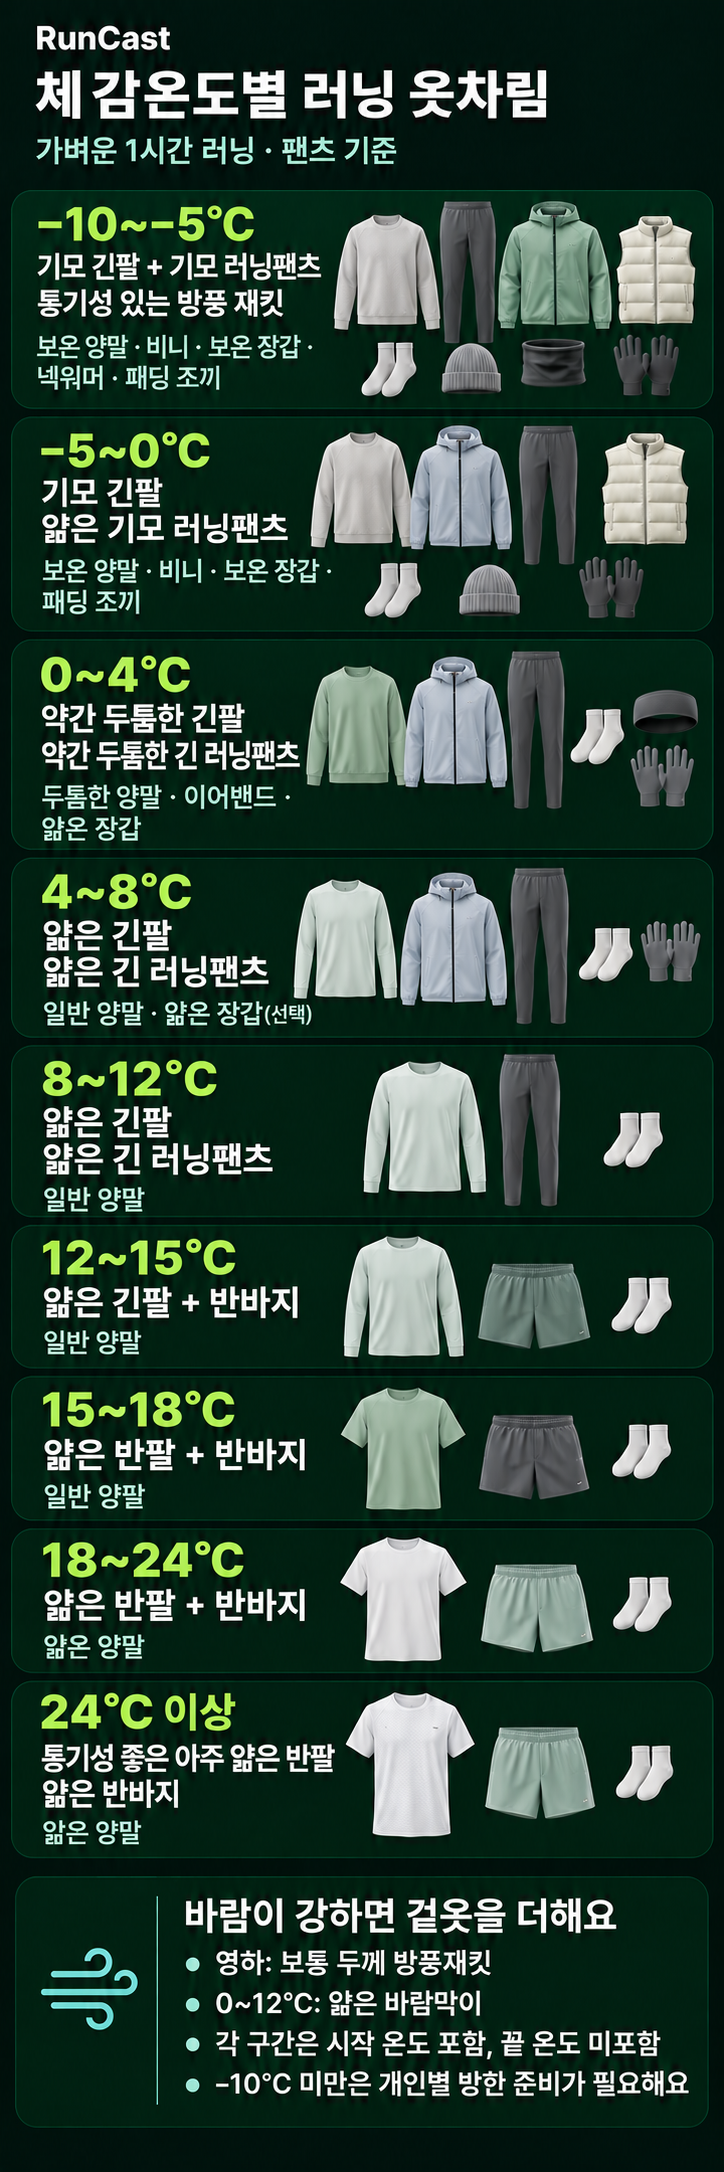
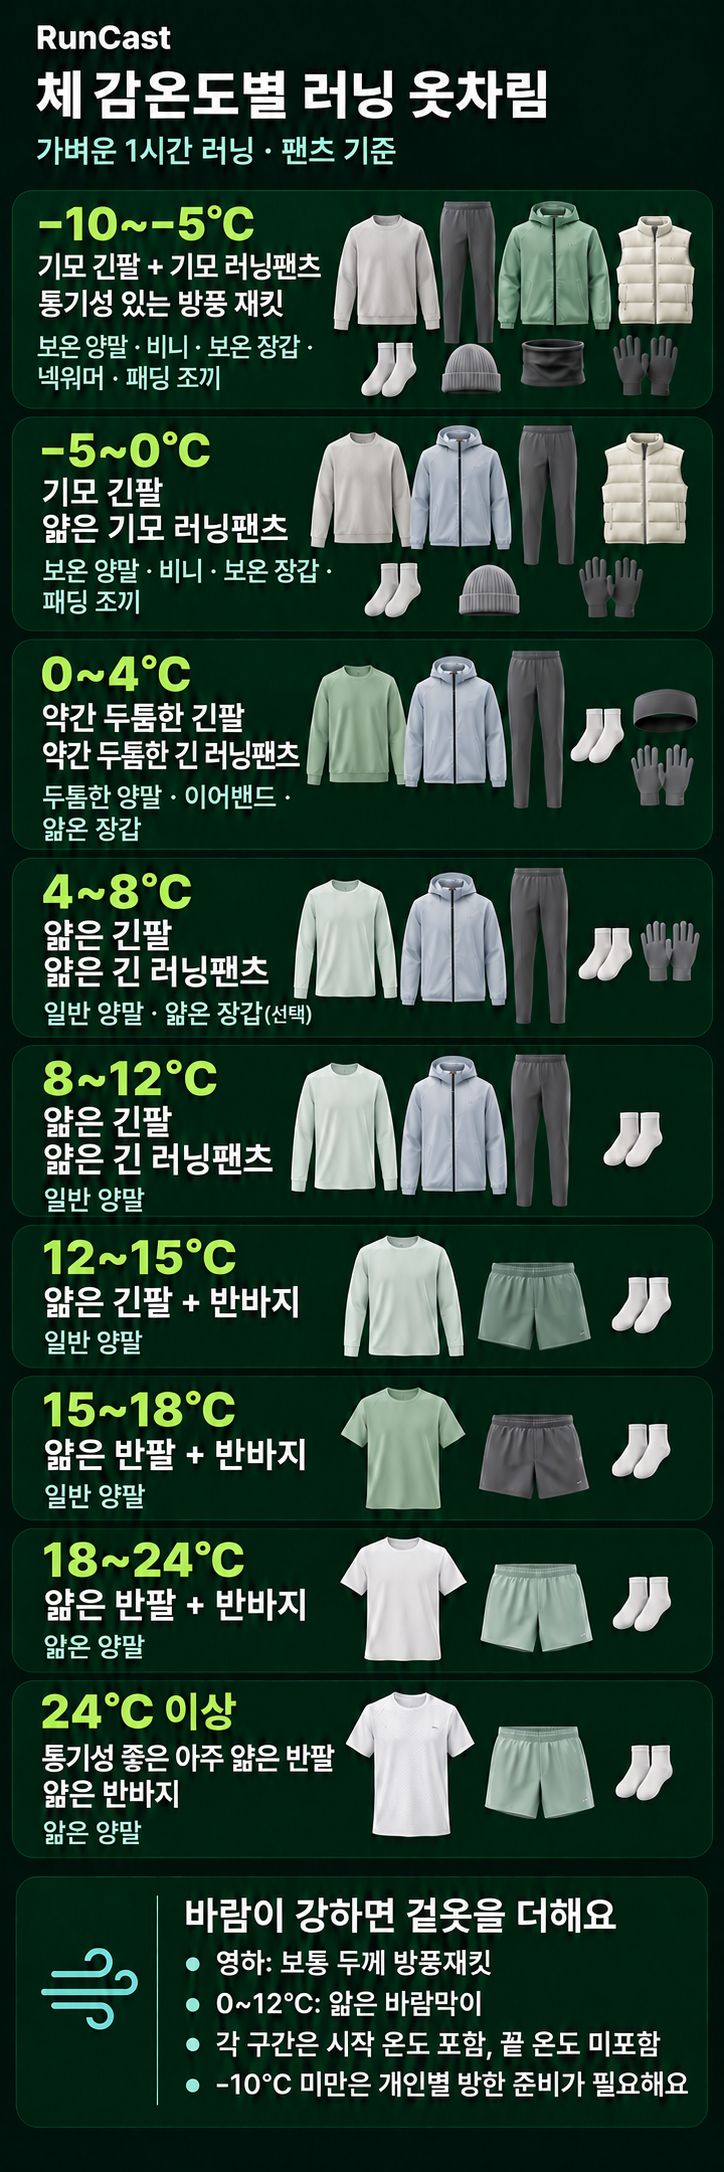
fix: add windbreaker to 8–12 degree clothing guide

diff --git a/sw.js b/sw.js
@@ -1,5 +1,5 @@
 // Offline app shell only. Weather and third-party maps are never intercepted.
-const CACHE = 'runcast-shell-v26';
+const CACHE = 'runcast-shell-v27';
 const SHELL = ['/mobile.html','/assets/mobile.css','/assets/mobile.js','/assets/mobile-extra.js','/assets/install-guide.mjs','/assets/refresh-scheduler.mjs','/assets/visit-tracker.mjs','/assets/weather-domain.mjs','/assets/running-wear-guide.png','/assets/ui-icons.mjs','/assets/cctv-domain.mjs','/assets/cctv-client.mjs','/manifest.webmanifest','/assets/pwa-icon-192.png','/assets/pwa-icon-512.png'];
 self.addEventListener('install',event=>event.waitUntil(caches.open(CACHE).then(cache=>cache.addAll(SHELL))));
 self.addEventListener('activate',event=>event.waitUntil(caches.keys().then(keys=>Promise.all(keys.filter(k=>k.startsWith('runcast-shell-')&&k!==CACHE).map(k=>caches.delete(k))))));
